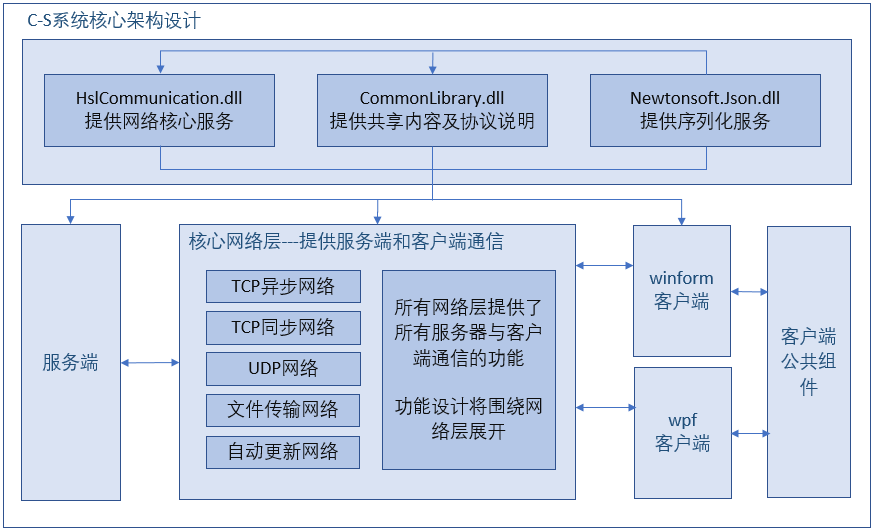
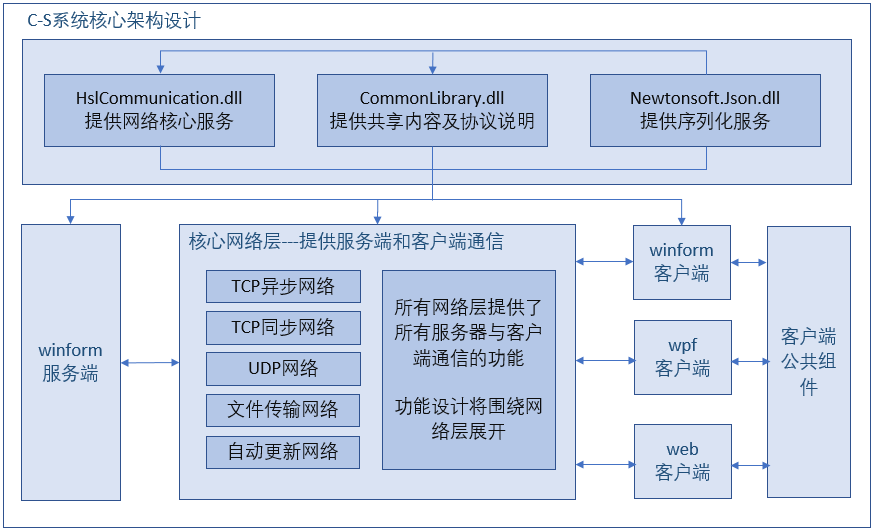
更新系统说明

diff --git a/README.md b/README.md
@@ -180,6 +180,18 @@ using HslCommunication.Profinet;
 ###### 其他功能界面使用了winform的窗口技术，此处不在赘述。
 
 
+<br />
+
+# Web版客户端的程序界面
+
+###### 登录界面，背景图片可以自定义
+
+![](https://github.com/dathlin/C-S-/raw/master/软件系统浏览器模版/screenshots/browser1.png) 
+
+###### 主界面，很多功能还在完善中
+
+![](https://github.com/dathlin/C-S-/raw/master/软件系统浏览器模版/screenshots/browser2.png) 
+
 
 <br />
 
